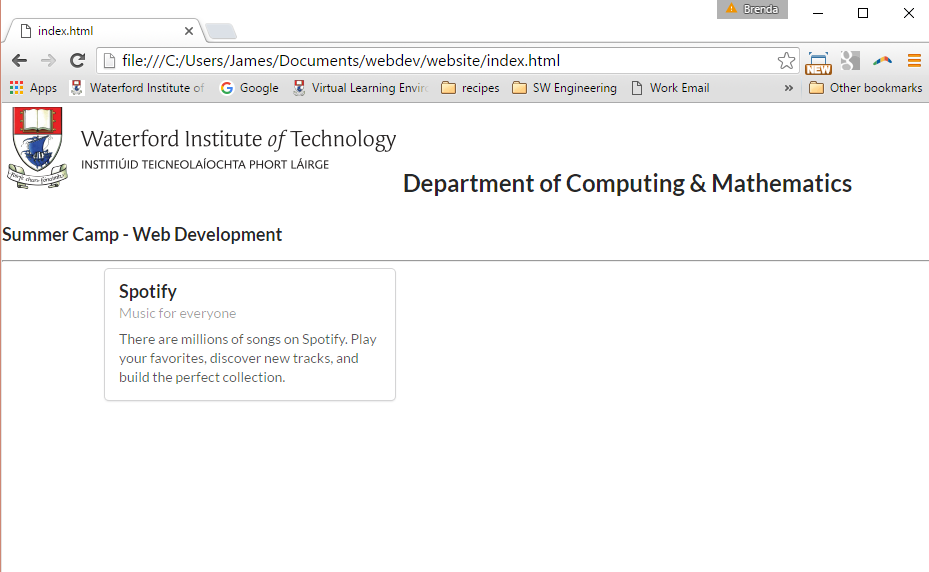
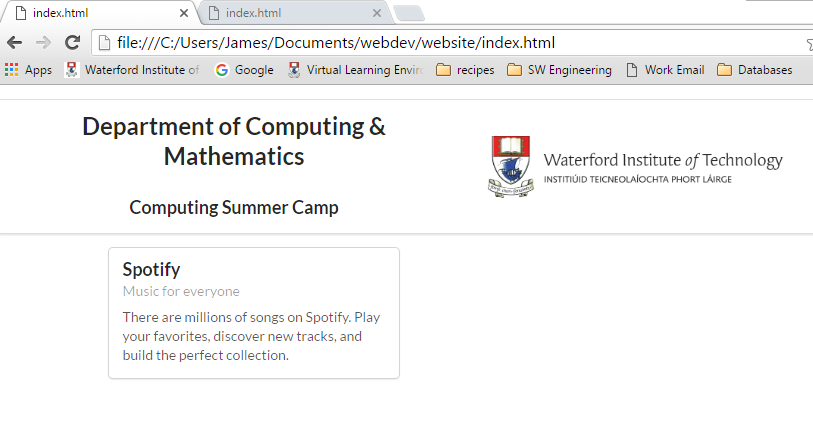
steps 1-3 complete

diff --git a/website/index.html b/website/index.html
@@ -7,20 +7,23 @@
      <script type="text/javascript" src="https://cdnjs.cloudflare.com/ajax/libs/semantic-ui/2.1.4/semantic.min.js"></script>
    </head>
    <body>
-    <header id="header">
-      <h2>
-         <img class="header-crest-img" src="assets/images/wit-crest.png" alt="WIT Crest">
-          Department of Computing &amp; Mathematics
-      </h2>
-      <h3> Summer Camp - Web Development </h3>
-      <hr>
-     </header>
+    <header class="ui two column center aligned middle aligned grid segment">
+      <div class="ui column">
+        <h2 class="ui header"> Department of Computing &amp; Mathematics </h2>
+        <h3 class="ui header">Computing Summer Camp</h3>
+      </div>
+      <div class="ui column">
+        <p>
+        <img class="ui medium image" src="assets/images/wit-crest.png" alt="WIT Crest">
+        </p>
+      </div>
+    </header>
     <div class="ui container">
       <div class="ui cards">
         <div class="card" id="spotify">
           <div class="content">
-             <img class="left floated small ui image" src="assets/images/spotify.png">
-          <div class="meta">
+          <img class="left floated small ui image" src="assets/images/spotify.png">
+            <div class="meta">
              Music for everyone
             </div>
             <div class="description">
@@ -28,7 +31,30 @@
             </div>
           </div>
         </div>
+        <div class="card" id="euro2016">
+          <div class="content">
+             <img class="left floated small ui image" src="assets/images/euro2016.jpg">
+          <div class="meta">
+             10th June - 10th July
+            </div>
+            <div class="description">
+            The 2016 UEFA European Championship will be the 15th edition of the international men's football championship of Europe.
+            </div>
+          </div>
+        </div>
+        <div class="card" id="chewbacca-mom">
+        <div class="content">
+             <img class="left floated small ui image" src="assets/images/chewbacca-mom.jpg">
+        <div class="meta">
+             Chewbacca laugh heard around the world
+        </div>
+        <div class="description">
+            Payne could hardly contain her excitement after buying the Chewbacca mask from Kohls for herself as part of her birthday joy.
+        </div>
+        </div>
+        </div>
       </div>
-    </div>  
-   </body>
+    </div>
+    </body>
  </html>
+

diff --git a/topic01/book/03.03.md b/topic01/book/03.03.md
@@ -1,3 +1,85 @@
 #Adding content
 
-duplicate cards, and add a footer with another image, personal?
+Now we have created one piece of content we can copy it and make two more pieces of content.
+First we need to be able to view our code in smaller parts. We do this by hiding some parts of the code and showing other parts. 
+
+- In the Sublime text editor move your mouse near the number 23 (this is the line number). It must be the line that contains the code `<div class="card" id="spotify"`> . You should see a small downwards facing arrow appearing beside the number. 
+- Click on this arrow.
+
+![](./img/18.png)
+
+- Once the arrow is clicked all of the code for the spotify content is hidden and it looks like this:
+
+![](./img/19.png)
+
+- This makes is easier to read a large file of code. We will be now adding more code and this technique is helpful for viewing sections of code.
+
+- Copy this section of code
+
+~~~
+        <div class="card" id="euro2016">
+          <div class="content">
+             <img class="left floated small ui image" src="assets/images/euro2016.jpg">
+          <div class="meta">
+             10th June - 10th July
+          </div>
+          <div class="description">
+            The 2016 UEFA European Championship will be the 15th edition of the international men's football championship of Europe.
+          </div>
+          </div>
+        </div>
+
+~~~
+
+- Go to the Sublime text editor and paste the section of code directly after the `</div`> for the spotify section as shown below:
+
+![](./img/20.png)
+
+- If you are happy your code now looks like this:
+
+![](./img/21.png)
+
+- Choose save from the file menu
+- Go to the Chrome web browser and click the refresh button.
+
+![](./img/22.png)
+
+- We now have two pieces of content, one for spotify and one for the European Cup.
+- We will add one more piece of content to complete the web page content.
+- First hide the section of code that relates to the euro2016 piece of content, you do this by clicking on the downwards arrow beside number 34 (the line of code containing `<div class="card" id="euro2016"`>. Your code will now look like this:
+
+![](./img/23.png)
+
+- Copy this piece of code
+
+~~~
+        <div class="card" id="chewbacca-mom">
+          <div class="content">
+             <img class="left floated small ui image" src="assets/images/chewbacca-mom.jpg">
+          <div class="meta">
+             Chewbacca laugh heard around the world
+            </div>
+            <div class="description">
+            Payne could hardly contain her excitement after buying the Chewbacca mask from Kohls for herself as part of her birthday joy.
+            </div>
+          </div>
+        </div>
+~~~
+
+- Go to Sublime text editor and paste the piece of code directly after the `</div`> for the euro2016 section, as shown below:
+
+![](./img/24.png)
+
+- Your code should now look like this:
+
+![](./img/25.png)
+
+- Choose Save from the File menu if your code is correct.
+- Go to Chrome web browser and click refresh.
+
+![](./img/26.png)
+
+- You should now see three pieces of content
+
+
+

diff --git a/topic01/book/01.01.md b/topic01/book/01.01.md
@@ -29,14 +29,16 @@ You will not be making changes to the `<head`> section, all of your code will be
 
 ~~~
 
-    <header id="header">
-      <h2>
-         Department of Computing &amp; Mathematics
-      </h2>
-      <h3> Summer Camp - Web Development </h3>
-      <hr>
+    <header class="ui two column center aligned middle aligned grid segment">
+      <div class="ui column">
+        <h2 class="ui header"> Department of Computing &amp; Mathematics </h2>
+        <h3 class="ui header">Computing Summer Camp</h3>
+      </div>
+      <div class="ui column">
+        <p>
+        </p>
+      </div>
     </header>
-
 ~~~     
 
 - Go to the Sublime text editor and paste the code so that it appears in between the `<body`> and the `</body`>
@@ -63,28 +65,22 @@ You will not be making changes to the `<head`> section, all of your code will be
 
 ~~~
 
-    <div class="ui container">
-      <div class="ui cards">
-        <div class="card" id="stark">
+        <div class="card" id="spotify">
           <div class="content">
-            <img class="right floated mini ui image" src="/images/avatar/large/elliot.jpg">
             <div class="header">
-             Elliot Fu
+             Spotify
             </div>
             <div class="meta">
-             Friends of Veronika
+             Music for everyone
             </div>
             <div class="description">
-            Elliot requested permission to view your contact details
+            There are millions of songs on Spotify. Play your favorites, discover new tracks, and build the perfect collection.
             </div>
           </div>
         </div>
-      </div>
-    </div>  
-
 ~~~
 
-- - Go back to the Sublime text editor and paste it into the html code so that it comes directly after the `</header`> as you can see below:
+- Go back to the Sublime text editor and paste it into the html code so that it comes directly after the `</header`> as you can see below:
 
 ![](./img/09.png)
 
@@ -94,4 +90,4 @@ You will not be making changes to the `<head`> section, all of your code will be
 ![](./img/10.png)
 Your web page should now look like this.
 
-- Go to step 02 in this lab (link is in the top bar of this web page).
+- Scroll back up to the top of this page and click on step 02 in this lab (link is in the top bar of this web page).

diff --git a/topic01/book/02.02.md b/topic01/book/02.02.md
@@ -10,10 +10,10 @@ Next we want to add some images to our web page.
 - Copy the following line of code.
 
 ~~~
-<img class="header-crest-img" src="assets/images/wit-crest.png" alt="WIT Crest">
+<img class="ui medium image" src="assets/images/wit-crest.png" alt="WIT Crest">
 ~~~
 
-- Go to Sublime text editor and place the line of code inside the `<h2`> and `</h2`> alongside the text Department of Computing & Mathematics so that it looks like this:
+- Go to Sublime text editor and place the line of code inside the `<p`> and `</p`>  so that it looks like this:
 
 ![](./img/11.png)
 
@@ -23,7 +23,7 @@ Next we want to add some images to our web page.
 
 ![](./img/12.png)
 
-- You should see the W.I.T crest banner appear in the top left corner of header.
+- You should see the W.I.T crest banner appear in the top right of the header.
 - Next we want to add an image to the Spotify content.
 - Copy the following code.
 
@@ -57,4 +57,4 @@ Your code now looks like this:
 
 ![](./img/17.png)
 
-
+- Scroll back up to the top of this page and click on step 03 in this lab (link is in the top bar of this web page).

diff --git a/topic01/book/06.06.md b/topic01/book/06.06.md
@@ -1,1 +1,10 @@
 #Semantic elements
+
+
+implement an element
+
+point them towards a choice of other elements
+
+add an element outside of the cards e.g footer
+
+buttons? icons? ribbons?

diff --git a/topic01/book/04.04.md b/topic01/book/04.04.md
@@ -1,1 +1,8 @@
 #Links
+
+https://www.spotify.com/ie/
+
+http://www.uefa.com/uefaeuro/
+
+https://www.youtube.com/watch?v=X26FuAlnnWY
+
